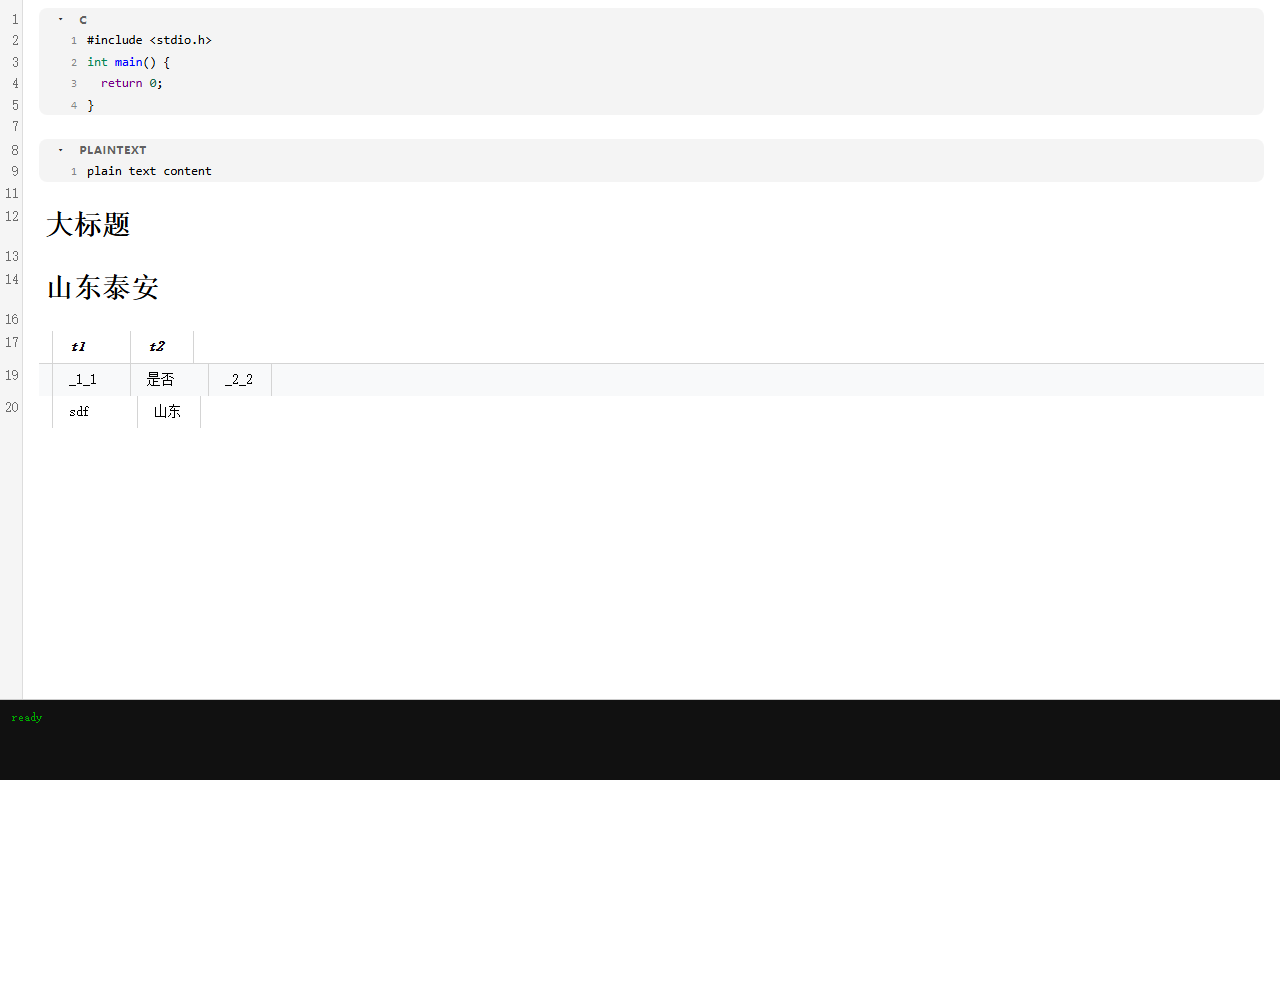
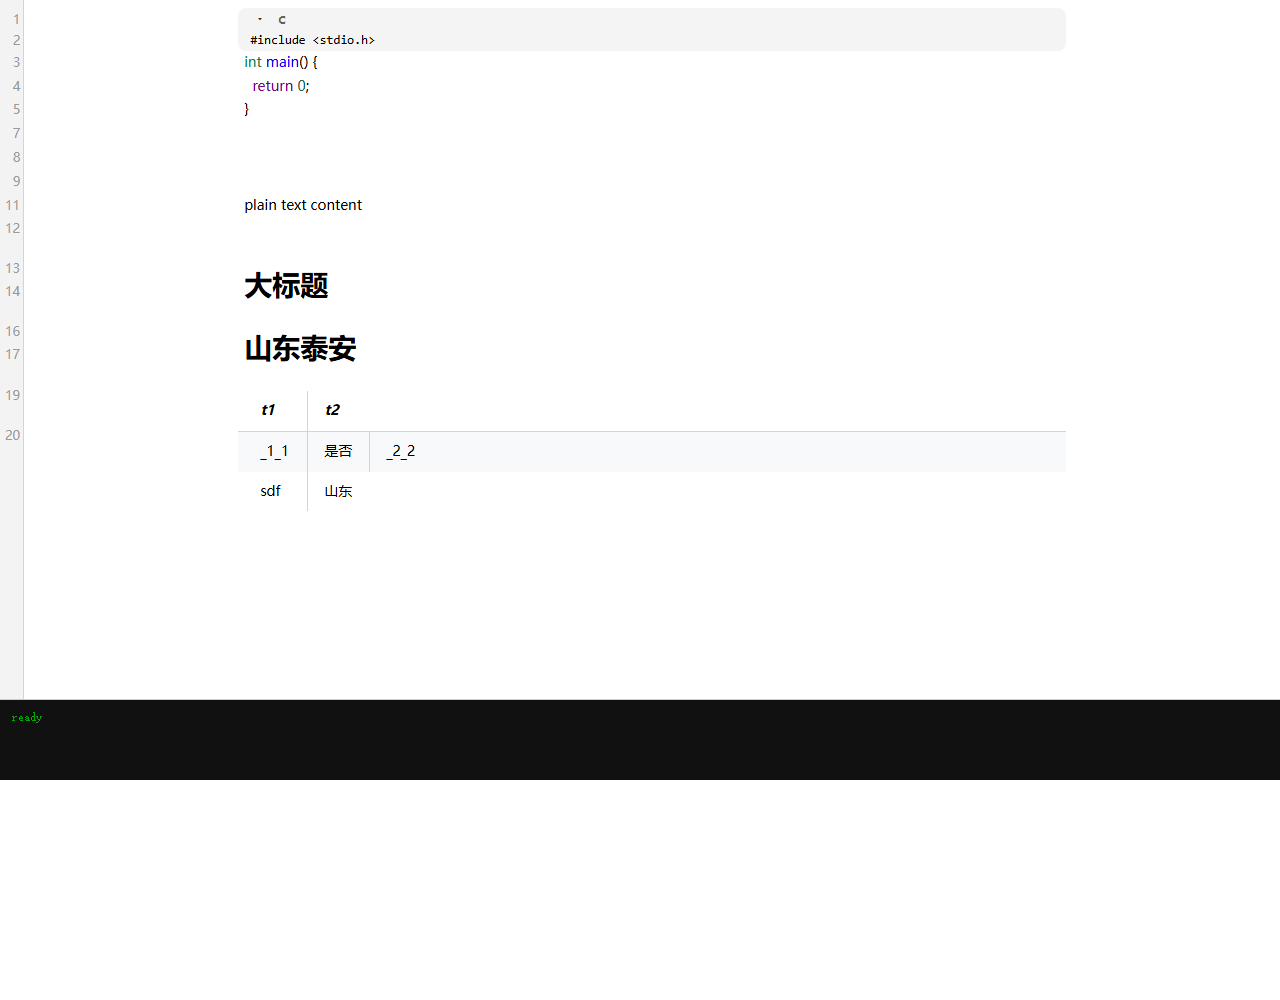
删除线、分割线、转义符

diff --git a/packages/md-editor/src/wysiwyg/decorations.ts b/packages/md-editor/src/wysiwyg/decorations.ts
@@ -5,7 +5,7 @@
 import { RangeSetBuilder } from "@codemirror/state";
 import { Decoration, EditorView, type DecorationSet } from "@codemirror/view";
 import { syntaxTree } from "@codemirror/language";
-import { BulletWidget, OrderedItemWidget, TaskCheckboxWidget, ImageWidget, LinkWidget } from "./widgets";
+import { BulletWidget, OrderedItemWidget, TaskCheckboxWidget, ImageWidget, LinkWidget, HrWidget } from "./widgets";
 import { CodeBlockToolbarWidget } from "./codeBlock";
 import { buildTableDecorations } from "./table";
 import { FENCE_CLOSE_RE, FENCE_OPEN_RE, nodeEndLine } from "./tree";
@@ -240,6 +240,24 @@ export function buildWysiwygDecorations(view: EditorView, cursorLine = 0): Decor
       } else if (name === "CodeInfo") {
         // 语言文本由工具栏 chip 展示：围栏行也完全移除，
         // 否则 ```c 首行会显示 chip "c" + 原文 "c" 两个（用户反馈 "C c" 即此残留）
+        items.push({ from, to, deco: Decoration.replace({}) });
+      }
+
+      // 分割线（--- / *** / ___）：整行替换为横线元素（Typora 式）
+      else if (name === "HorizontalRule") {
+        items.push({ from, to, deco: Decoration.replace({ widget: new HrWidget() }) });
+      }
+
+      // 转义符（\* \# \~ 等）：隐藏反斜杠，仅显示转义后的字符
+      // （Escape 节点 [from,to] 覆盖 "\X" 两个字符，只移除第一个反斜杠）
+      else if (name === "Escape") {
+        items.push({ from, to: from + 1, deco: Decoration.replace({}) });
+      }
+
+      // 删除线（GFM ~~text~~）：~~ 标记移除 + 内容加删除线样式
+      else if (name === "Strikethrough") {
+        items.push({ from, to, deco: Decoration.mark({ class: "md-strike" }) });
+      } else if (name === "StrikethroughMark") {
         items.push({ from, to, deco: Decoration.replace({}) });
       }
 

diff --git a/packages/md-editor/src/wysiwyg/widgets.ts b/packages/md-editor/src/wysiwyg/widgets.ts
@@ -1,6 +1,6 @@
 /**
  * WYSIWYG 自定义 Widget（@mdeditor/md-editor 内部）
- * 列表圆点 / 有序序号 / 任务复选框 —— 替换对应语法标记的 DOM 元素
+ * 列表圆点 / 有序序号 / 任务复选框 / 分割线 —— 替换对应语法标记的 DOM 元素
  */
 import { WidgetType } from "@codemirror/view";
 
@@ -48,6 +48,24 @@ export class TaskCheckboxWidget extends WidgetType {
   }
   eq(other: TaskCheckboxWidget): boolean {
     return other.checked === this.checked;
+  }
+  ignoreEvent(): boolean {
+    return false;
+  }
+}
+
+/** 分割线（--- / *** / ___ 整行替换为横线元素，宽度随内容区） */
+export class HrWidget extends WidgetType {
+  toDOM(): HTMLElement {
+    const wrap = document.createElement("span");
+    wrap.className = "md-hr-wrap";
+    const hr = document.createElement("hr");
+    hr.className = "md-hr";
+    wrap.appendChild(hr);
+    return wrap;
+  }
+  eq(_other: HrWidget): boolean {
+    return true;
   }
   ignoreEvent(): boolean {
     return false;

diff --git a/src/App.css b/src/App.css
@@ -1386,6 +1386,21 @@ body {
   font-style: italic;
 }
 
+/* 删除线（GFM ~~text~~）：内容加删除线 */
+.md-strike {
+  text-decoration: line-through;
+}
+
+/* 分割线（--- / *** / ___ 整行替换）：横线铺满内容区 */
+.md-hr-wrap {
+  display: block;
+}
+.md-hr {
+  border: none;
+  border-top: 2px solid var(--md-hr-color, var(--border));
+  margin: 1.2em 0;
+}
+
 .md-inline-code {
   background: var(--hover);
   border-radius: 4px;
